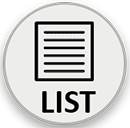
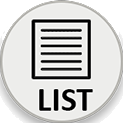
Add-list Button

Changed region(s): [[0.0, 0.0, 1.0, 1.0], [0.2439, 0.1463, 0.7561, 0.6585]]

diff --git a/src/App.jsx b/src/App.jsx
@@ -22,7 +22,7 @@ import {
   ButtonGroup,
   IconButton,
   useEditableControls,
-  // Button,
+  Button,
   LinkBox,
   LinkOverlay,
   // VisuallyHidden,
@@ -79,6 +79,7 @@ function PinnedList() {
       display="flex"
       alignItems="center"
       justifyContent="center"
+      boxShadow="5px 5px 5px rgb(137, 137, 137)"
     >
       <Editable defaultValue="Weekend shop">
         <EditablePreview />
@@ -90,12 +91,26 @@ function PinnedList() {
   );
 }
 
-// function PinnedList(props) {
-//   const prop = props;
-//   return (
-
-//   )
-// }
+function CircularBtn() {
+  return (
+    <Button
+      border="3px"
+      borderColor="#a9a9a9"
+      // bgImage='url( ${prop.fileLoc} )'
+      bgImage="url('/img/list_footer_btn.png')"
+      borderRadius="37.5px"
+      w="75px"
+      h="75px" // h = (205/200) x w
+      bgSize="100%"
+      bgPosition="center"
+      bgRepeat="no-repeat"
+      display="flex"
+      alignItems="center"
+      justifyContent="center"
+      boxShadow="5px 5px 5px rgb(137, 137, 137)"
+    />
+  );
+}
 
 // function ListPage() {
 //   return (<p>This is list page</p>);
@@ -106,7 +121,7 @@ function PinnedList() {
 
 function App() {
   // TODO: What does this do? Delete disableError.
-  const [items] = useState([1, 2, 3, 4, 5, 6]);
+  const [items] = useState([1, 2, 3]);
   const navIconsLoc = ['/img/board_nav_btn.png', '/img/archive_nav_btn.png', '/img/guide_nav_btn.png', '/img/contact_nav_btn.png', '/img/setup_nav_btn.png'];
   const navIcons = navIconsLoc.map((navIcon) => <TabComp fileLoc={navIcon} />);
   // const routes = (
@@ -120,7 +135,7 @@ function App() {
   return (
     <ChakraProvider className="App">
       <Center w="100vw">
-        <Container w="720px" h="850px" bg="#e8e8e6" marginTop="20px" centerContent>
+        <Container w="720px" h="730px" bg="#e8e8e6" marginTop="20px" centerContent>
 
           <Tabs align="center" size="lg" variant="enclosed">
 
@@ -130,13 +145,30 @@ function App() {
 
             <TabPanels>
 
-              <TabPanel border="3px" borderColor="#a9a9a9" borderStyle="solid" borderRadius="10px" bg="#cedcbf" h="450px">
+              <TabPanel position="absolute" border="3px" borderColor="#a9a9a9" borderStyle="solid" borderRadius="10px" bg="#cedcbf" h="550px" w="490px">
                 <SimpleGrid columns={3} spacing={10}>
                   <Boxes items={items} />
-                  <LinkBox>
-                    <LinkOverlay href="/board" />
-                    <PinnedList />
-                  </LinkBox>
+                  <Box>
+                    <LinkBox>
+                      <LinkOverlay href="/board" />
+                      <PinnedList />
+                    </LinkBox>
+                  </Box>
+                  <Box>
+                    <LinkBox>
+                      <LinkOverlay href="/board" />
+                      <PinnedList />
+                    </LinkBox>
+                  </Box>
+                </SimpleGrid>
+                <SimpleGrid columns={5} spacing={15} position="relative" bottom="-265px">
+                  <Box />
+                  <Box />
+                  <Box />
+                  <Box />
+                  <Box>
+                    <CircularBtn />
+                  </Box>
                 </SimpleGrid>
               </TabPanel>
 
